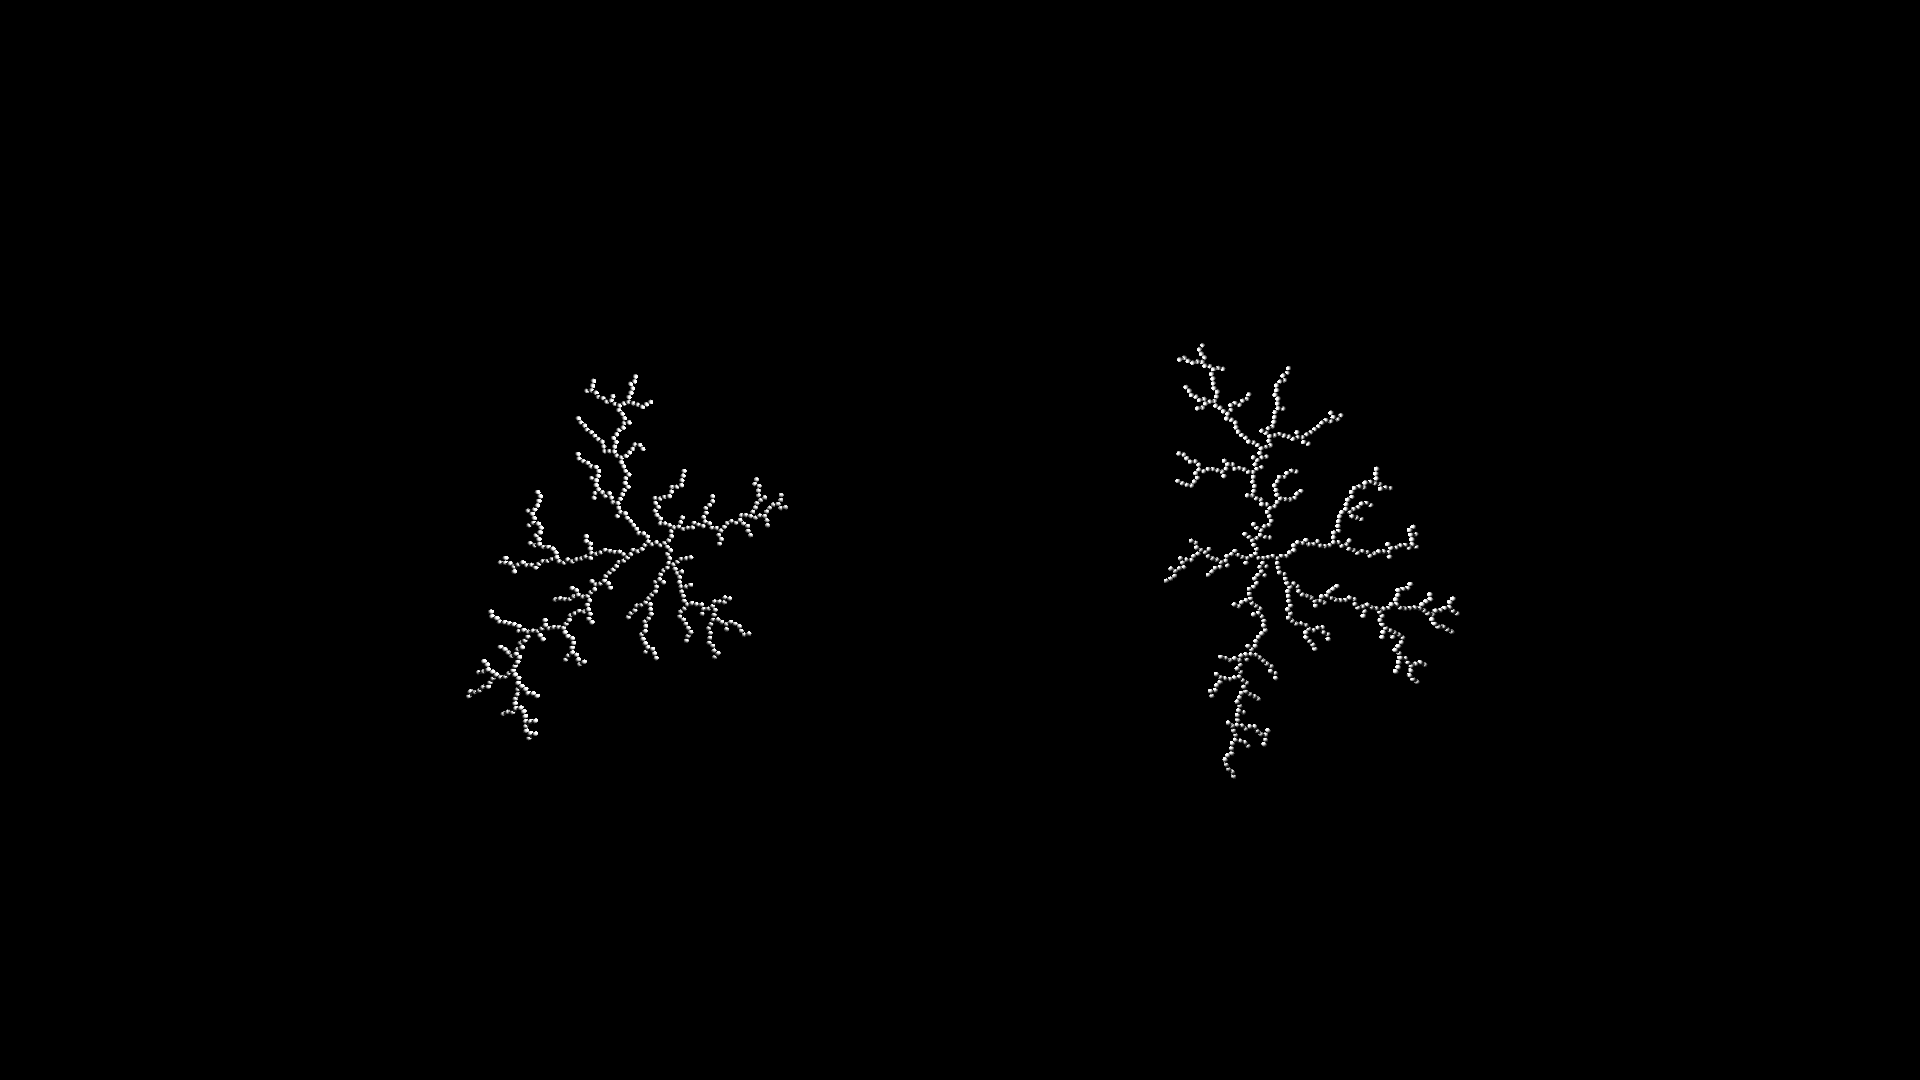
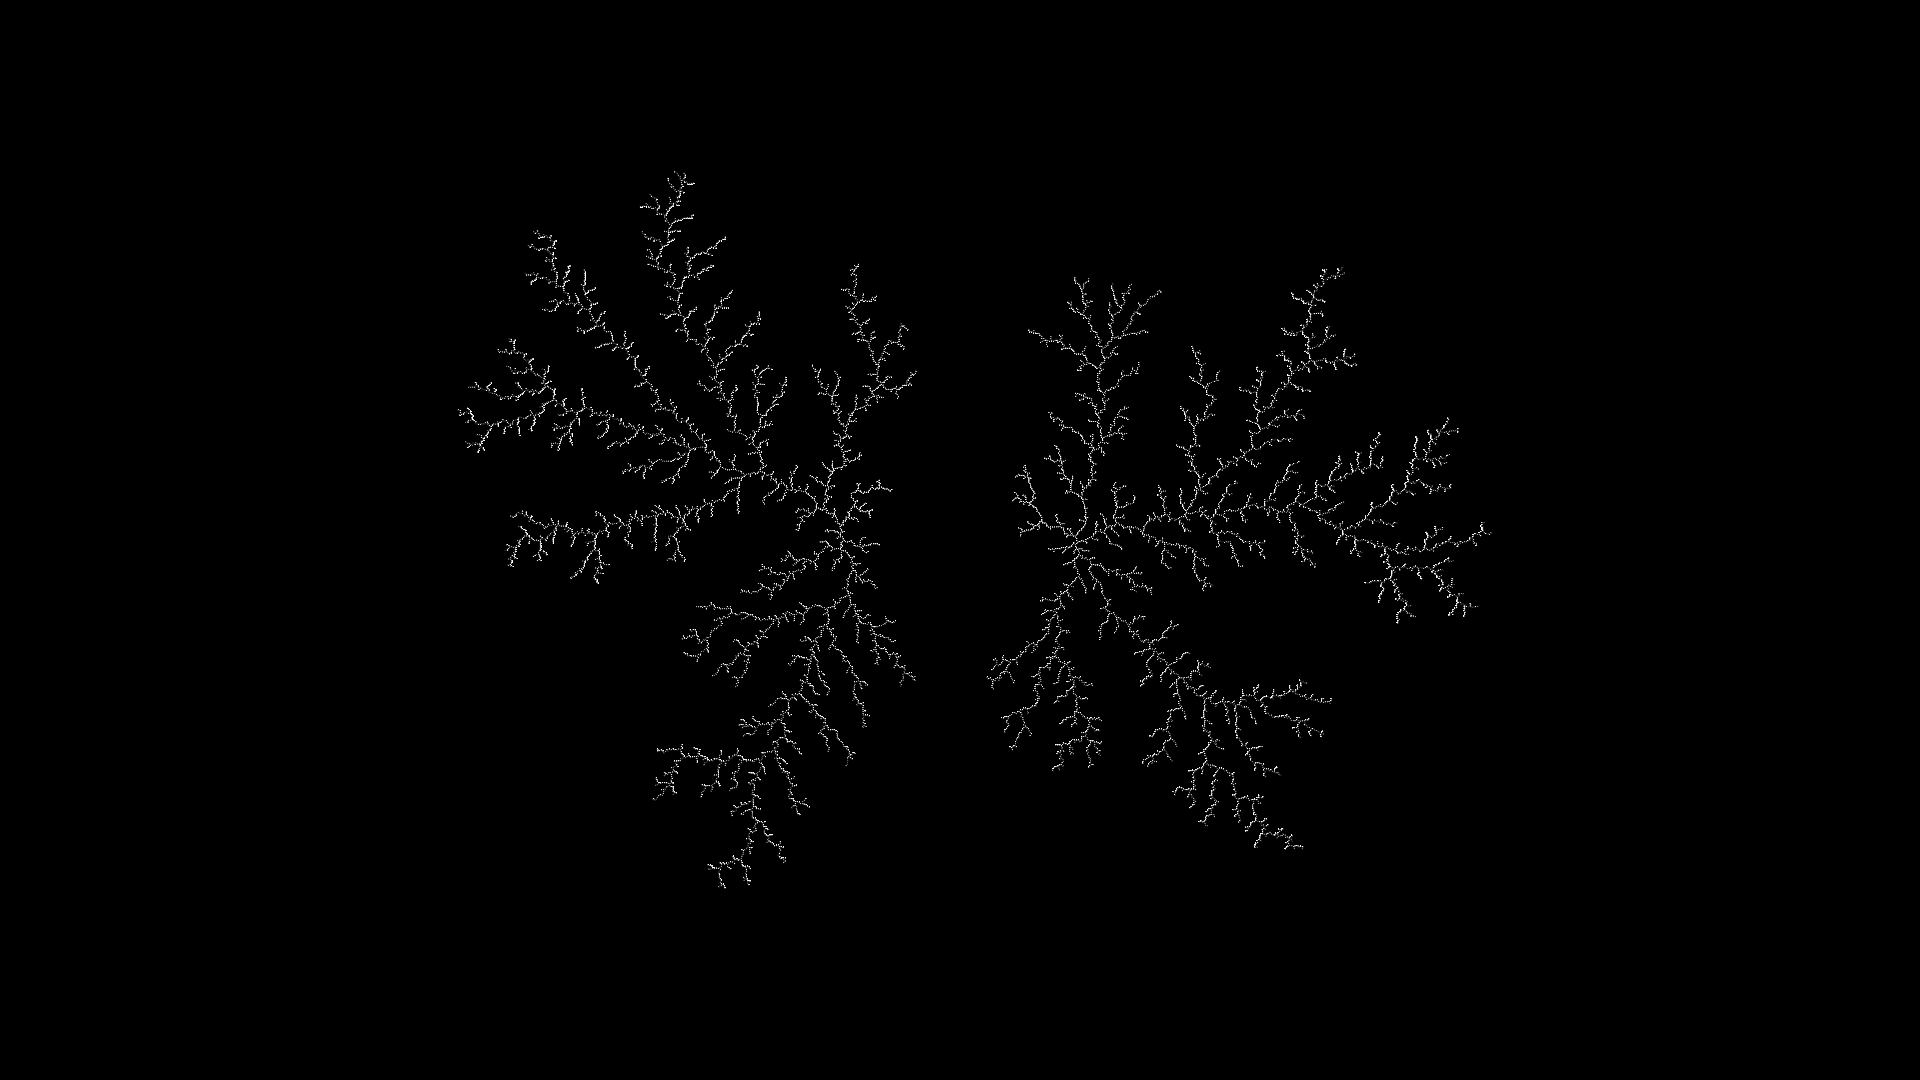
clean

diff --git a/examples/save.rs b/examples/save.rs
@@ -1,15 +1,15 @@
 use dla::Builder;
 
 fn main() {
-    let mut model = Builder::flat();
+    let mut model = Builder::convex();
 
     model.add([60., 0.].into(), 0);
     model.add([-60., 0.].into(), 1);
 
-    for _ in 0..10000 {
+    for _ in 0..1000 {
         model.add_particle();
     }
 
     model.save_csv("out.csv").unwrap();
-    model.render("render3.png");
+    model.render("render4.png");
 }
